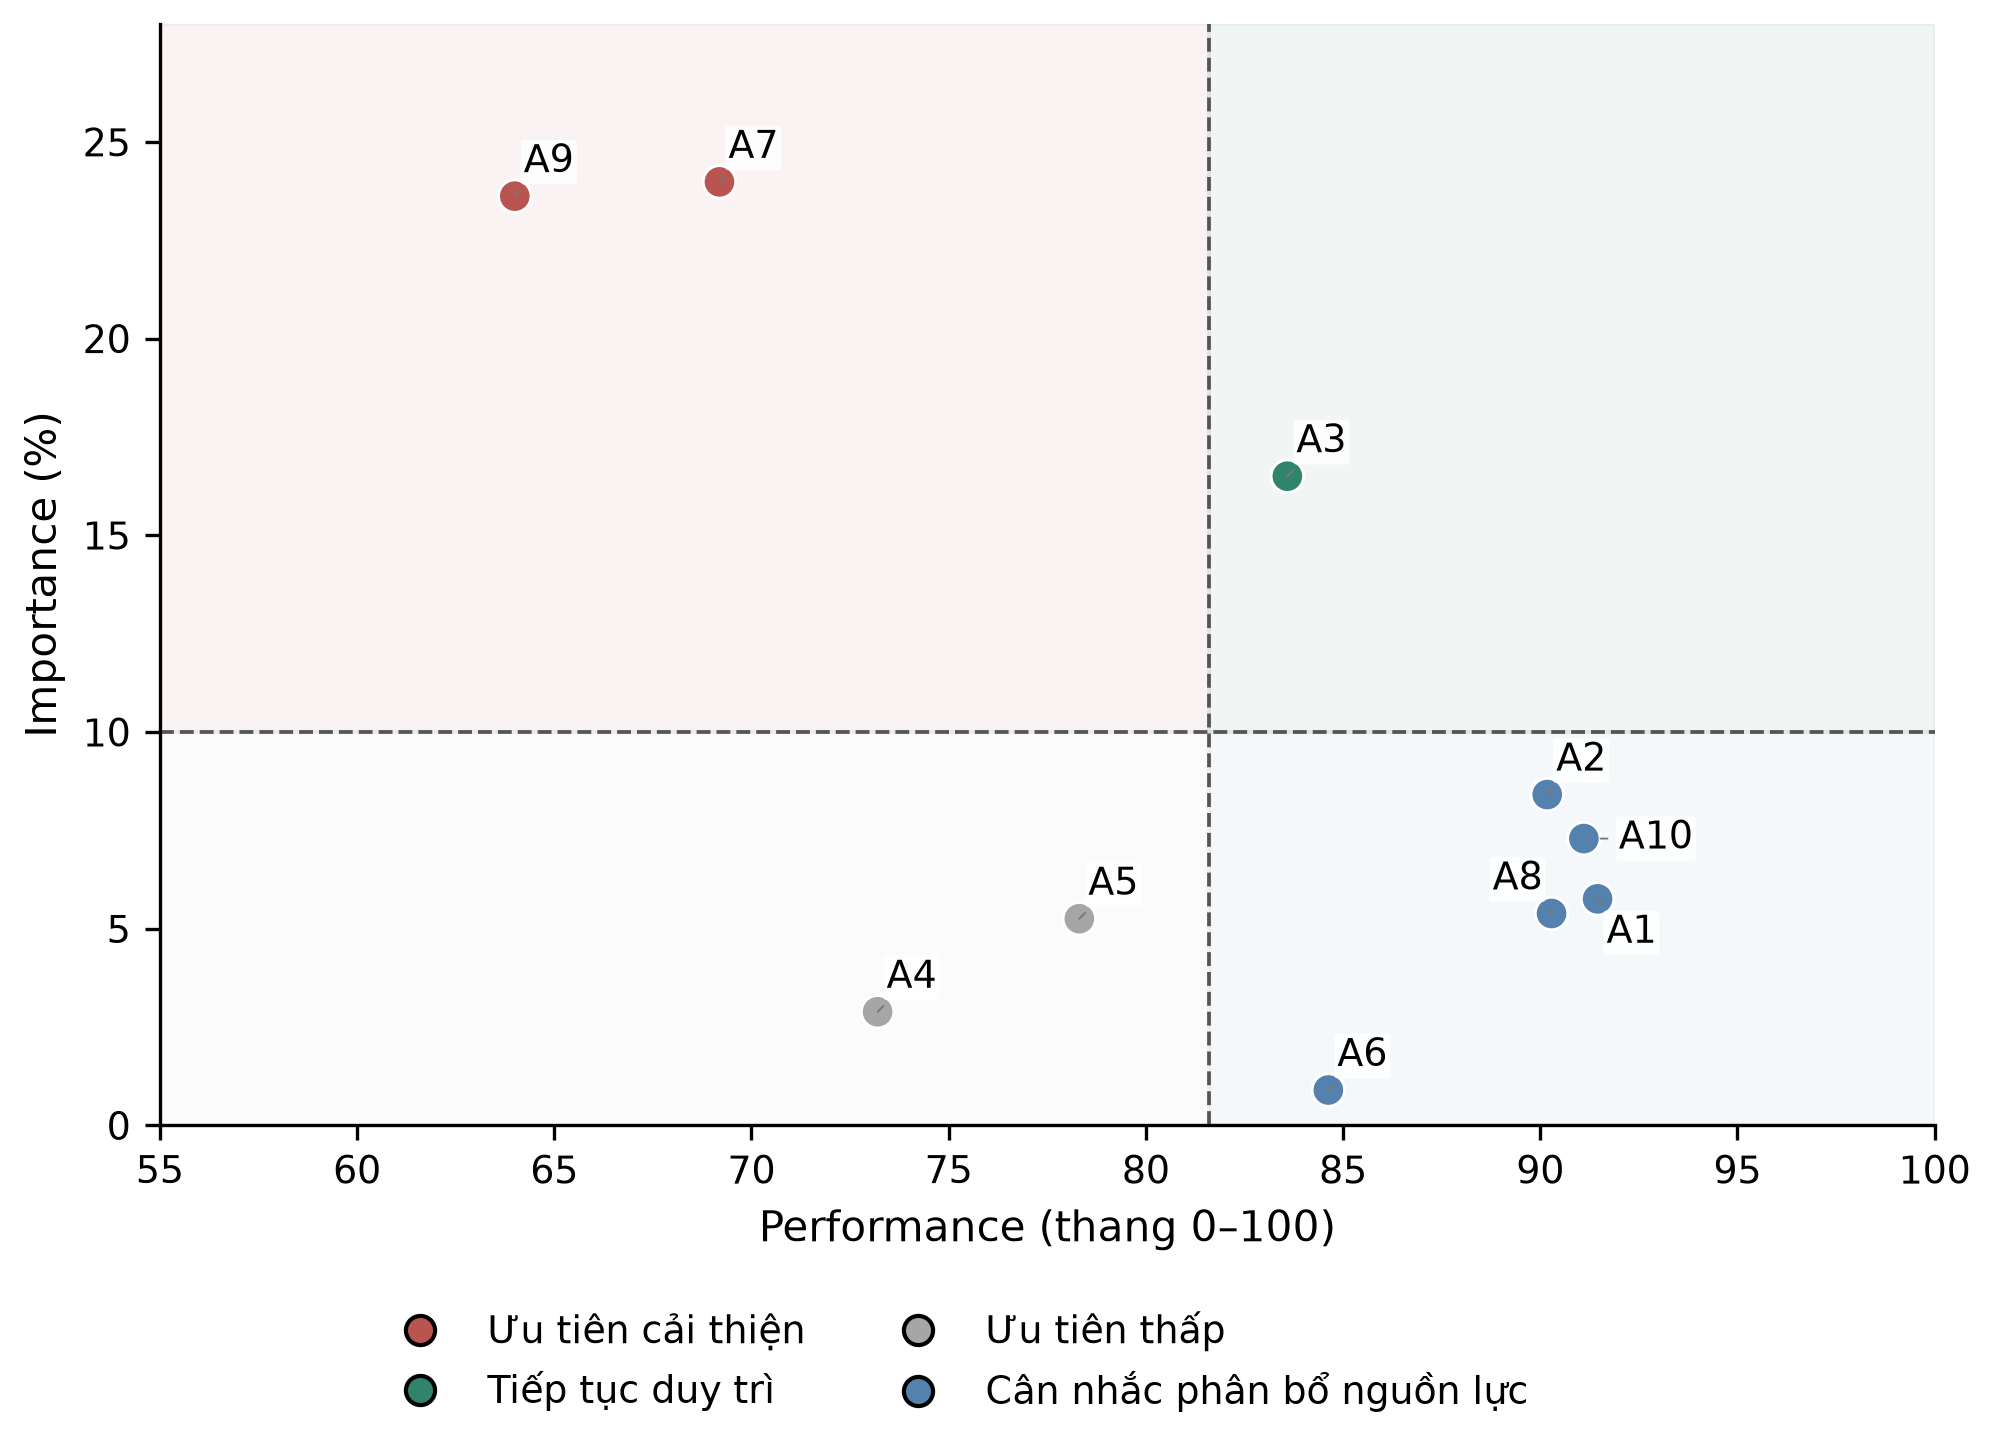
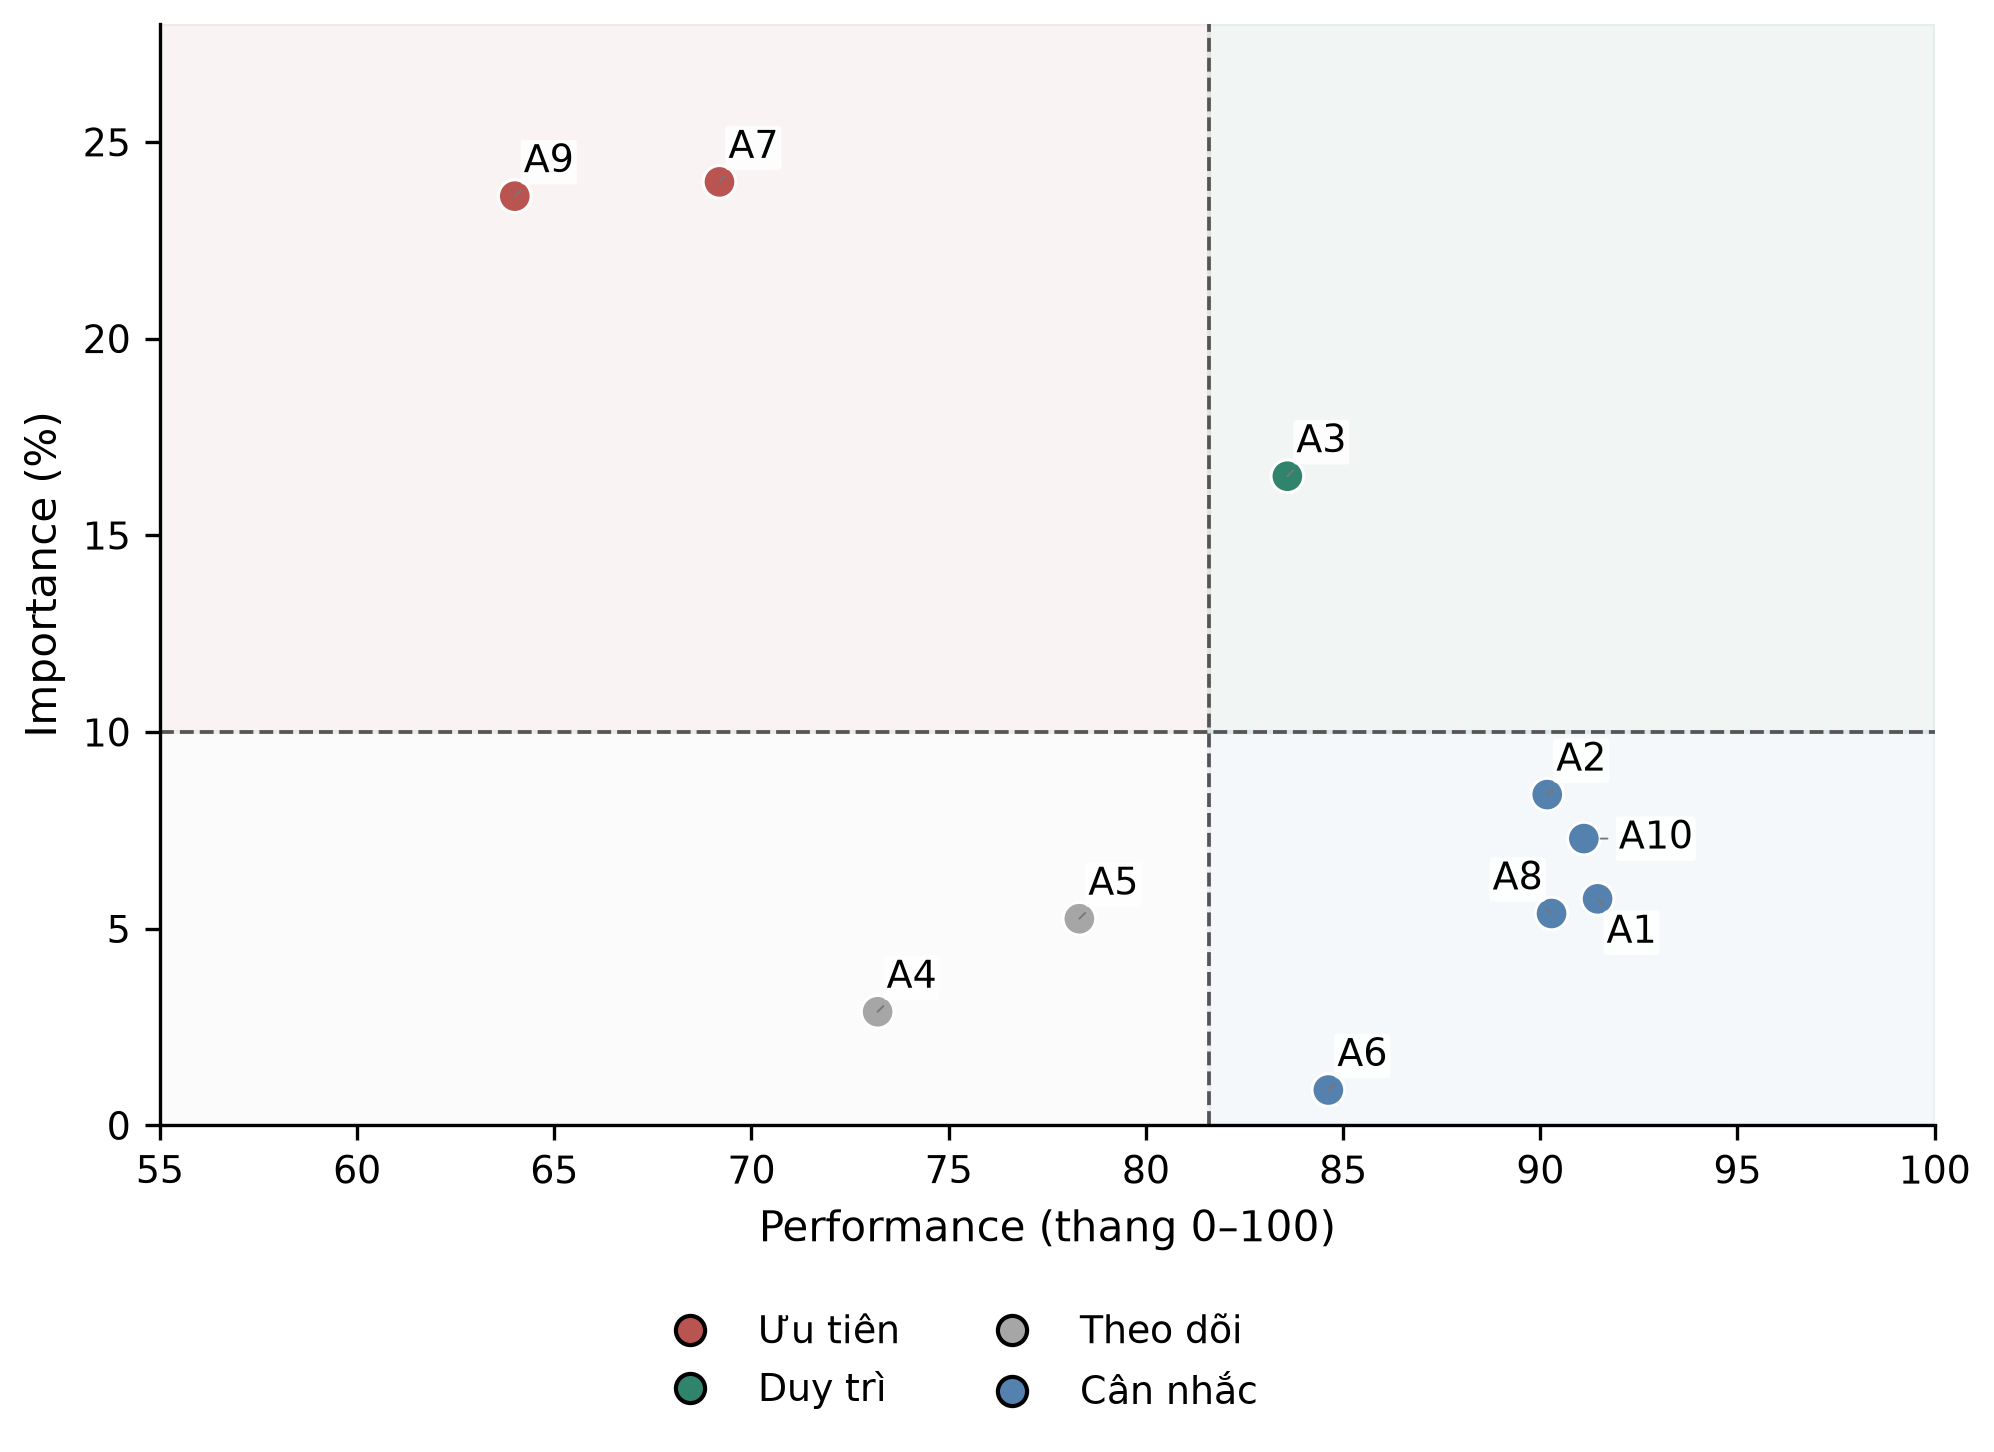
fix charts

Changed region(s): [[0.2487, 0.8988, 0.4664, 0.9917], [0.4975, 0.8988, 0.7462, 0.9917], [0.1866, 0.8988, 0.2177, 0.9917]]

diff --git a/paper_figures/scripts/build_tables.py b/paper_figures/scripts/build_tables.py
@@ -2,9 +2,8 @@
 import _bootstrap
 import csv
 import json
-from common.config import ASPECTS, CODES, DATA, LABELS, LOSSES, MODEL_NAMES, TABLES
+from common.config import ASPECTS, CODES, DATA, LABELS, LOSSES, MODEL_NAMES, Q_NAMES, TABLES
 from common.data_utils import dataset_summary, load, number as f
-from common.plot_utils import IPA_SHORT_NAMES
 
 TABLE_STEMS = [
     'table01_dataset_overview', 'table02_platform_overview', 'table03_train_validation_test',
@@ -77,7 +76,7 @@ def main():
     write(10, ['Mô hình', 'RMSE', 'MAE', 'R²', 'MBRE', 'MIBRE', 'PRED(25)'], rows)
     write(11, ['Khía cạnh', 'Importance (%)', 'Performance', 'Đề xuất IPA'],
           [[f'{CODES[r.Aspect]} – {LABELS[r.Aspect]}', f(r.Importance_Pct), f(r.Performance_0_100),
-            IPA_SHORT_NAMES[r.IPA_Quadrant]] for r in load('25_ipa_overall').sort_values('Importance_Pct', ascending=False).itertuples()])
+            Q_NAMES[r.IPA_Quadrant]] for r in load('25_ipa_overall').sort_values('Importance_Pct', ascending=False).itertuples()])
     write(12, ['Phương pháp', 'Ngưỡng Importance (%)', 'Ngưỡng Performance'],
           [['Trung bình' if r.Cut_Method == 'mean' else 'Trung vị', f(r.Importance_Cut, 3), f(r.Performance_Cut, 3)]
            for r in load('35_ipa_cutoff_comparison').itertuples()])
@@ -85,8 +84,8 @@ def main():
     changed = comparison.loc[comparison.IPA_Quadrant_Mean.ne(comparison.IPA_Quadrant_Median)]
     changed = changed.sort_values('Importance_Pct', ascending=False).reset_index()
     write(13, ['Khía cạnh', 'Ngưỡng trung bình', 'Ngưỡng trung vị'],
-          [[f'{CODES[r.Aspect]} – {LABELS[r.Aspect]}', IPA_SHORT_NAMES[r.IPA_Quadrant_Mean],
-            IPA_SHORT_NAMES[r.IPA_Quadrant_Median]] for r in changed.itertuples()])
+          [[f'{CODES[r.Aspect]} – {LABELS[r.Aspect]}', Q_NAMES[r.IPA_Quadrant_Mean],
+            Q_NAMES[r.IPA_Quadrant_Median]] for r in changed.itertuples()])
 
 
 if __name__ == '__main__':

diff --git a/paper_figures/common/plot_utils.py b/paper_figures/common/plot_utils.py
@@ -14,9 +14,6 @@ plt.rcParams.update({'font.family':'DejaVu Sans','font.size':10,'axes.titlesize'
                      'axes.spines.top':False,'axes.spines.right':False,
                      'pdf.fonttype':42,'ps.fonttype':42,'savefig.facecolor':'white'})
 
-IPA_SHORT_NAMES = dict(zip(QUADRANTS, ['Ưu tiên', 'Duy trì', 'Theo dõi', 'Cân nhắc']))
-
-
 def decimal_axes(ax,x=False,y=True,digits=0):
     formatter=FuncFormatter(lambda v,pos:number(v,digits))
     if x: ax.xaxis.set_major_formatter(formatter)
@@ -99,7 +96,7 @@ def ipa_quadrant_labels(ax,frame,importance_cut,performance_cut):
            (xmin,pc,ymin,ic),(pc,xmax,ymin,ic)]
     for index,(quadrant,zone) in enumerate(zip(QUADRANTS,zones)):
         x0,x1,y0,y1=zone
-        text=IPA_SHORT_NAMES[quadrant]
+        text=Q_NAMES[quadrant]
         zone_box=Bbox(ax.transData.transform([[x0,y0],[x1,y1]])).padded(-3)
         artist=ax.text(0,0,text,ha='center',va='center',fontsize=7.6,fontweight='bold',
                        color='#2563eb',zorder=6,gid='ipa_quadrant_label',alpha=0,
@@ -148,10 +145,9 @@ def ipa_axes(ax,frame,title,importance_cut=None,performance_cut=None,xlim=(40,10
     if labels: label_points(ax,frame)
     return ic,pc
 
-def ipa_legend(fig,location='lower center',anchor=(.5,0),columns=2,short_labels=False):
+def ipa_legend(fig,location='lower center',anchor=(.5,0),columns=2):
     from matplotlib.lines import Line2D
-    names=IPA_SHORT_NAMES if short_labels else Q_NAMES
-    handles=[Line2D([0],[0],marker='o',color='none',markerfacecolor=c,markersize=7,label=names[q])
+    handles=[Line2D([0],[0],marker='o',color='none',markerfacecolor=c,markersize=7,label=Q_NAMES[q])
              for q,c in zip(QUADRANTS,Q_COLORS)]
     fig.legend(handles=handles,loc=location,bbox_to_anchor=anchor,ncol=columns,frameon=False,fontsize=9)
 

diff --git a/paper_figures/scripts/fig09_ipa_comparison_heatmap.py b/paper_figures/scripts/fig09_ipa_comparison_heatmap.py
@@ -3,7 +3,7 @@ from matplotlib.colors import ListedColormap,BoundaryNorm
 import _bootstrap
 from common.config import *
 from common.data_utils import load
-from common.plot_utils import plt,save,heatmap,IPA_SHORT_NAMES
+from common.plot_utils import plt,save,heatmap
 
 def main():
     platforms=load('32_ipa_platform_summary')['Platform'].tolist()
@@ -27,7 +27,7 @@ def main():
         for y in range(10):
             for x in range(len(groups)):
                 quadrant=values.iloc[y,x]
-                ax.text(x,y,IPA_SHORT_NAMES[quadrant],ha='center',va='center',
+                ax.text(x,y,Q_NAMES[quadrant],ha='center',va='center',
                         color='#17314b' if quadrant=='Low Priority' else 'white',fontsize=8.7)
     save(fig,Path(__file__).stem)
 

diff --git a/paper_figures/common/config.py b/paper_figures/common/config.py
@@ -20,6 +20,6 @@ MODEL_NAMES = {'birnn':'PhoBERT + BiRNN','bilstm':'PhoBERT + BiLSTM',
                'bigru':'PhoBERT + BiGRU','multitask':'PhoBERT MultiTask'}
 LOSSES = {'baseline':'CE','class_weights':'WCE','focal_loss':'Focal Loss'}
 QUADRANTS = ['Concentrate Here','Keep Up the Good Work','Low Priority','Possible Overkill']
-Q_NAMES = dict(zip(QUADRANTS,['Ưu tiên cải thiện','Tiếp tục duy trì','Ưu tiên thấp','Cân nhắc phân bổ nguồn lực']))
+Q_NAMES = dict(zip(QUADRANTS,['Ưu tiên','Duy trì','Theo dõi','Cân nhắc']))
 Q_COLORS = ['#b95450','#31846c','#a6a6a6','#5481ad']
 

diff --git a/paper_figures/scripts/fig07_ipa_platforms.py b/paper_figures/scripts/fig07_ipa_platforms.py
@@ -19,7 +19,7 @@ def main():
         ax.set_ylabel('Importance (%)',fontsize=9)
         ax.set_xticks([40,60,80,100])
     for ax,sub in zip(axes,parts): label_points(ax,sub)
-    ipa_legend(fig,anchor=(.5,.015),columns=4,short_labels=True)
+    ipa_legend(fig,anchor=(.5,.015),columns=4)
     save(fig,Path(__file__).stem)
 
 if __name__=='__main__': main()

diff --git a/paper_figures/scripts/fig08_ipa_brands.py b/paper_figures/scripts/fig08_ipa_brands.py
@@ -20,7 +20,7 @@ def main():
         ax.set_ylabel('Importance (%)',fontsize=9)
         ax.set_xticks([40,60,80,100])
     for ax,sub in zip(axes,parts): label_points(ax,sub)
-    ipa_legend(fig,anchor=(.5,.015),columns=4,short_labels=True)
+    ipa_legend(fig,anchor=(.5,.015),columns=4)
     save(fig,Path(__file__).stem)
 
 if __name__=='__main__': main()

diff --git a/paper_figures/scripts/fig10_ipa_sensitivity.py b/paper_figures/scripts/fig10_ipa_sensitivity.py
@@ -13,7 +13,7 @@ def main():
         ax.set_xlabel('Performance (0-100)',fontsize=9)
     axes[1].set_ylabel('')
     for ax in axes: label_points(ax,values)
-    ipa_legend(fig,anchor=(.5,.0),columns=4,short_labels=True)
+    ipa_legend(fig,anchor=(.5,.0),columns=4)
     save(fig,Path(__file__).stem)
 
 if __name__=='__main__': main()
